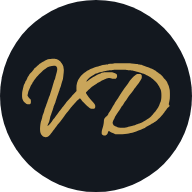
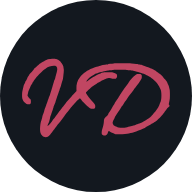
Take the burgundy of the estate's façade as the site's accent
The gold accent becomes the wine red of the façade's railings and lettering,
lifted a little to read on the dark ground: links, buttons, the handwritten
logo, the tasting label's frame and press, the sales bar and the favicon.

Claude-Session: https://claude.ai/code/session_01N1zkf8bkxQHkhdCxTQ4Zvu

Changed region(s): [[0.0938, 0.2812, 0.9062, 0.7188]]

diff --git a/src/components/sections/book-cta.tsx b/src/components/sections/book-cta.tsx
@@ -20,9 +20,9 @@ export function BookCta() {
           className="relative mx-auto max-w-3xl px-6 py-12 text-center text-[#2a241c] shadow-[0_30px_60px_-20px_rgba(0,0,0,0.7)] sm:px-14 sm:py-16"
           style={{ background: PAPER }}
         >
-          {/* A double gold frame, as printed on the labels. */}
-          <span aria-hidden className="pointer-events-none absolute inset-3 border border-[#a8843f]/80 sm:inset-4" />
-          <span aria-hidden className="pointer-events-none absolute inset-[18px] border border-[#a8843f]/40 sm:inset-[23px]" />
+          {/* A double burgundy frame, the colour of the estate's façade. */}
+          <span aria-hidden className="pointer-events-none absolute inset-3 border border-[#7a2236]/80 sm:inset-4" />
+          <span aria-hidden className="pointer-events-none absolute inset-[18px] border border-[#7a2236]/40 sm:inset-[23px]" />
 
           {images.pressoir && (
             <img src={images.pressoir} alt="" aria-hidden className="mx-auto h-16 w-auto sm:h-20" />
@@ -31,11 +31,11 @@ export function BookCta() {
             <EstateLogo className="h-12 text-4xl sm:h-14" />
           </div>
 
-          <p className="mt-6 text-[11px] font-medium tracking-[0.42em] text-[#8a6a2e] sm:text-xs">VENEZ DÉGUSTER</p>
+          <p className="mt-6 text-[11px] font-medium tracking-[0.42em] text-[#7a2236] sm:text-xs">VENEZ DÉGUSTER</p>
           <h2 id="cta-title" className="mt-3 font-serif text-[clamp(40px,6vw,72px)] font-semibold italic leading-none">
             à Champtin
           </h2>
-          <div aria-hidden className="mx-auto mt-6 h-px w-16 bg-[#a8843f]" />
+          <div aria-hidden className="mx-auto mt-6 h-px w-16 bg-[#7a2236]" />
           <p className="mx-auto mt-6 max-w-md text-[15px] leading-relaxed text-[#2a241c]/80">
             Dégustation gratuite du lundi au samedi. Pour une visite guidée ou un groupe, appelez-nous pour réserver.
           </p>
@@ -48,7 +48,7 @@ export function BookCta() {
             {estate.phone}
           </a>
 
-          <p className="mt-10 text-[10px] tracking-[0.32em] text-[#8a6a2e] sm:text-[11px]">
+          <p className="mt-10 text-[10px] tracking-[0.32em] text-[#7a2236] sm:text-[11px]">
             SANCERRE AOC · BIO DEPUIS 1964 · VENTE DIRECTE AU DOMAINE
           </p>
         </motion.div>

diff --git a/src/data/images.ts b/src/data/images.ts
@@ -35,7 +35,7 @@ export const images = {
   basketShadow: asset("photos/panier-ombre.webp"),
   /** The same soil, faint behind the home page's cards under the hero (a strip without the corner stones). */
   soil: asset("photos/terre.webp") as string | null,
-  /** The press drawn on the estate's labels, in gold, heading the tasting invitation. */
+  /** The press drawn on the estate's labels, in the façade's burgundy, heading the tasting invitation. */
   pressoir: asset("logos/pressoir.png") as string | null,
   /** Beside the introduction of the stockists page. */
   stockistsPhoto: asset("photos/mise-en-bouteille.webp") as string | null,

diff --git a/src/components/sections/hero.tsx b/src/components/sections/hero.tsx
@@ -44,7 +44,7 @@ export function Hero() {
         className="absolute inset-0"
         style={{
           background:
-            "radial-gradient(ellipse 55% 60% at 68% 52%, rgba(201,165,90,0.18), transparent 70%), linear-gradient(to bottom, #13181f, #171c24 60%, #13181f)",
+            "radial-gradient(ellipse 55% 60% at 68% 52%, rgba(192,70,98,0.16), transparent 70%), linear-gradient(to bottom, #13181f, #171c24 60%, #13181f)",
         }}
       />
       {/* On large screens the bottles stand on the stone ledge of a picture filling the section. */}

diff --git a/src/components/sections/where-to-buy.tsx b/src/components/sections/where-to-buy.tsx
@@ -7,8 +7,8 @@ import { images } from "@/data/images"
 import { ease, fadeUp, inView, stagger } from "@/lib/motion"
 import { cn } from "@/lib/utils"
 
-// The three shares of the sales bar, from deep to light gold, with their icons.
-const shareTones = ["#c9a55a", "#8f733c", "#e3cc95"]
+// The three shares of the sales bar, in shades of the estate's burgundy, with their icons.
+const shareTones = ["#c04662", "#7a2236", "#e0909f"]
 const shareIcons = [Store, Plane, ShoppingBag]
 
 export function WhereToBuy() {

diff --git a/src/index.css b/src/index.css
@@ -8,8 +8,9 @@
     --foreground: 38 20% 88%; /* warm pearl */
     --primary: 38 20% 88%;
     --primary-foreground: 215 16% 9%;
-    --accent: 38 46% 56%; /* warm gold #c9a55a */
-    --accent-foreground: 215 16% 9%;
+    /* The burgundy of the estate's façade (railings, lettering), lifted to read on the dark ground. */
+    --accent: 346 52% 45%; /* #ae375a */
+    --accent-foreground: 38 30% 96%;
     --surface: 215 14% 13%;
     --surface-raised: 215 12% 17%;
     --muted-foreground: 38 8% 56%;
